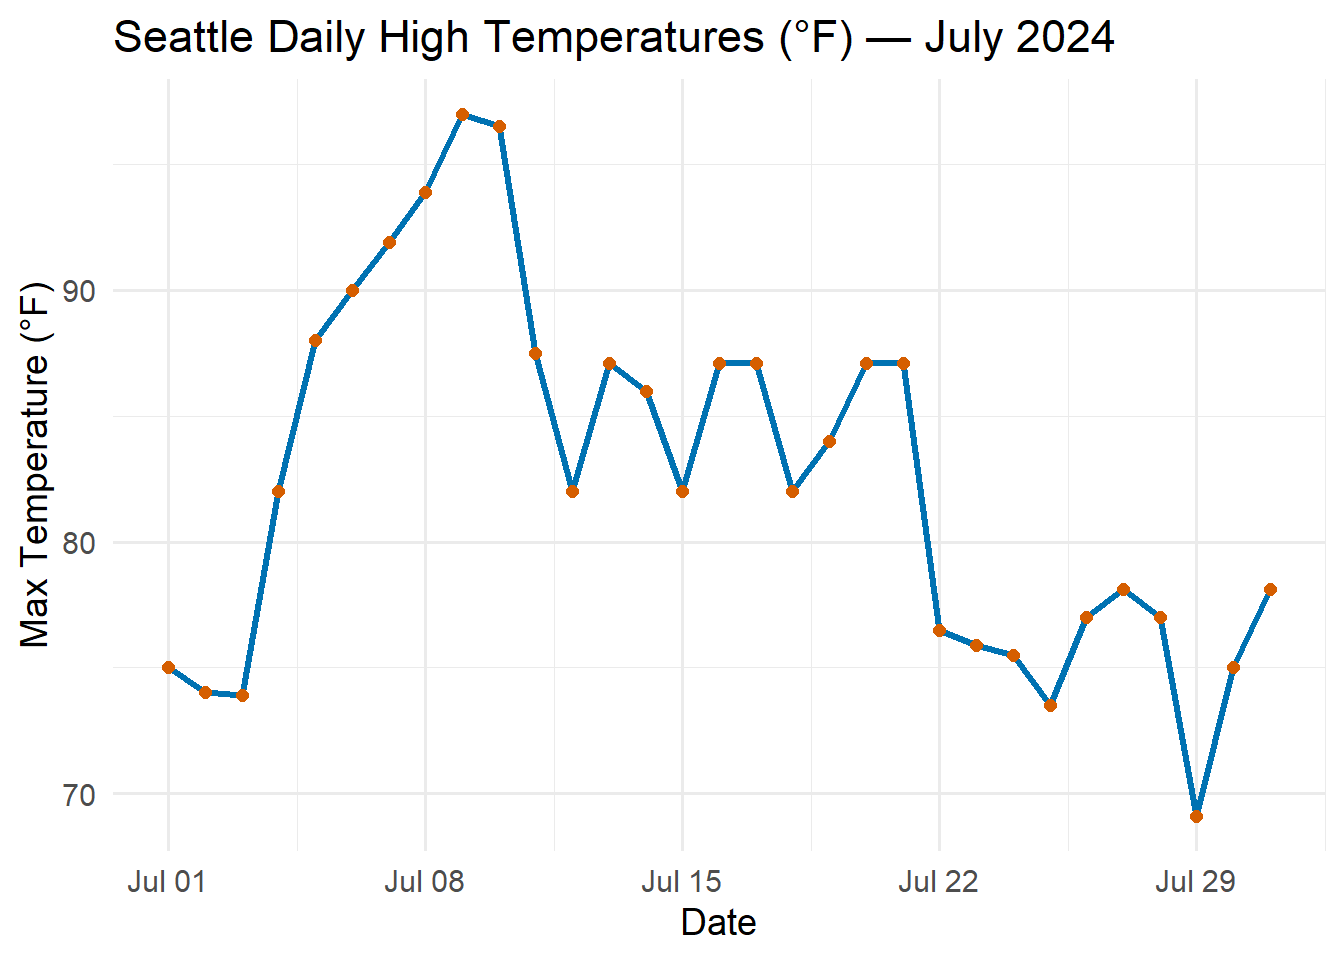
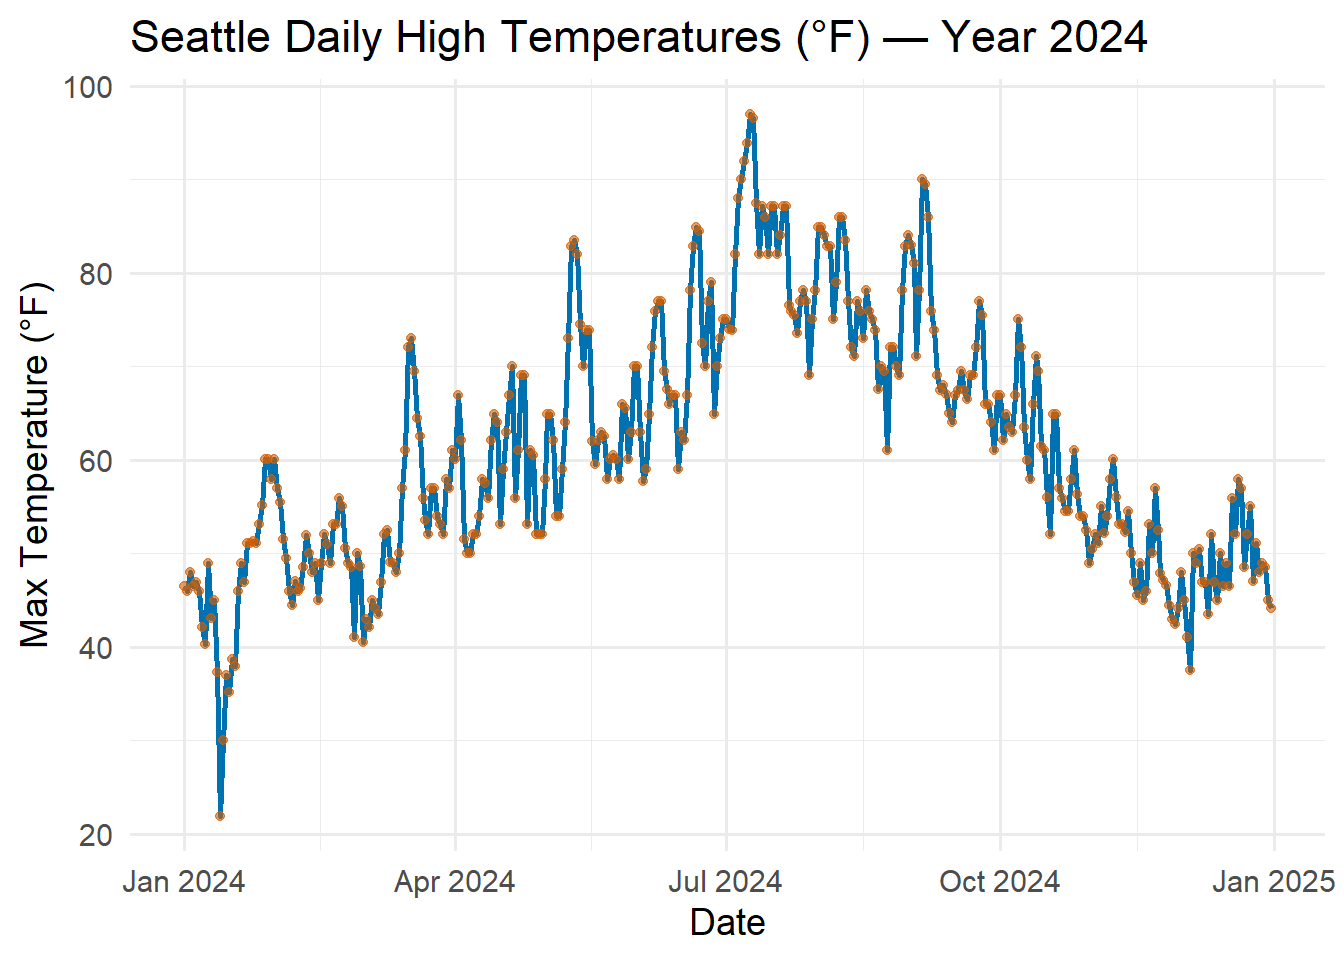
Built site for gh-pages

diff --git a/index.html b/index.html
@@ -109,14 +109,8 @@ ul.task-list li input[type="checkbox"] {
 <div id="quarto-content" class="quarto-container page-columns page-rows-contents page-layout-article page-navbar">
 <!-- sidebar -->
 <!-- margin-sidebar -->
-    <div id="quarto-margin-sidebar" class="sidebar margin-sidebar">
-        <nav id="TOC" role="doc-toc" class="toc-active">
-    <h2 id="toc-title">On this page</h2>
-   
-  <ul>
-  <li><a href="#load-cached-weather-data" id="toc-load-cached-weather-data" class="nav-link active" data-scroll-target="#load-cached-weather-data">Load cached weather data</a></li>
-  </ul>
-</nav>
+    <div id="quarto-margin-sidebar" class="sidebar margin-sidebar zindex-bottom">
+        
     </div>
 <!-- main -->
 <main class="content" id="quarto-document-content">
@@ -146,16 +140,18 @@ ul.task-list li input[type="checkbox"] {
 </header>
 
 
-<p>This R script uses the <strong>worldmet</strong> package to download real hourly weather data for <strong>Seattle Tacoma International Airport</strong> for the year <strong>2024</strong>. It filters the data to focus on the month of <strong>July</strong> and calculates the maximum daily temperature in <strong>Celsius</strong>, then converts these temperatures to <strong>Fahrenheit</strong>. Finally, it visualizes the daily high temperatures throughout July 2024 using a clear and informative line chart created with <strong>ggplot2</strong>. This approach allows for easy exploration of <strong>historical temperature trends</strong> without the need for <strong>API tokens</strong> or complex setups.</p>
-<p>library(dplyr) library(lubridate) library(ggplot2)</p>
-<section id="load-cached-weather-data" class="level1">
-<h1>Load cached weather data</h1>
-<p>seattle_weather &lt;- readRDS(“data/seattle_weather_2024.rds”)</p>
-<p>daily_max_temps &lt;- seattle_weather %&gt;% mutate(date = as.Date(date)) %&gt;% group_by(date) %&gt;% summarise(tmax_C = max(air_temp, na.rm = TRUE)) %&gt;% mutate(tmax_F = round(tmax_C * 9/5 + 32, 1))</p>
-<p>ggplot(daily_max_temps, aes(x = date, y = tmax_F)) + geom_line(color = “#0072B2”, size = 1) + geom_point(color = “#D55E00”, size = 1.5, alpha = 0.6) + labs( title = “Seattle Daily High Temperatures (°F) — Year 2024”, x = “Date”, y = “Max Temperature (°F)” ) + theme_minimal(base_size = 14) yaml Copy Edit</p>
+<p>This R script uses the <strong>worldmet</strong> package to download real hourly weather data for <strong>Seattle Tacoma International Airport</strong> for the year <strong>2024</strong>. It filters the data to focus throughout the whole year; and calculates the maximum daily temperature in <strong>Celsius</strong>, then converts these temperatures to <strong>Fahrenheit</strong>. Finally, it visualizes the daily high temperatures throughout all of 2024 using a clear and informative line chart created with <strong>ggplot2</strong>. This approach allows for easy exploration of <strong>historical temperature trends</strong> without the need for <strong>API tokens</strong> or complex setups.</p>
+<div class="cell">
+<div class="cell-output-display">
+<div>
+<figure class="figure">
+<p><img src="index_files/figure-html/unnamed-chunk-1-1.png" class="img-fluid figure-img" width="672"></p>
+</figure>
+</div>
+</div>
+</div>
 
 
-</section>
 
 </main> <!-- /main -->
 <script id="quarto-html-after-body" type="application/javascript">
